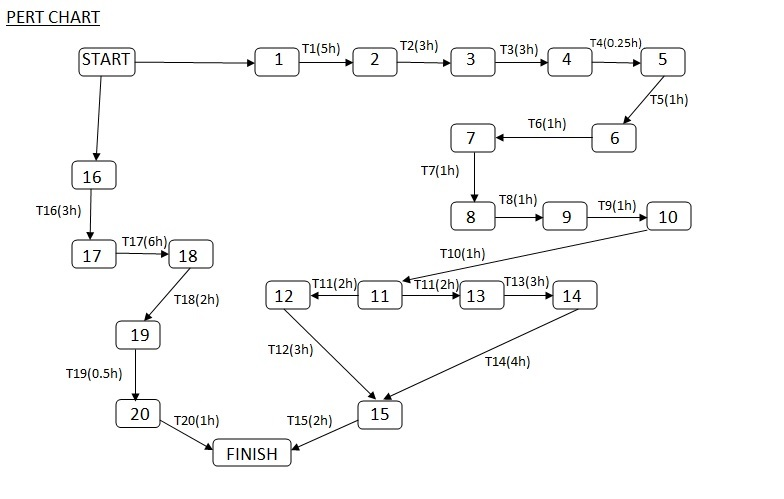
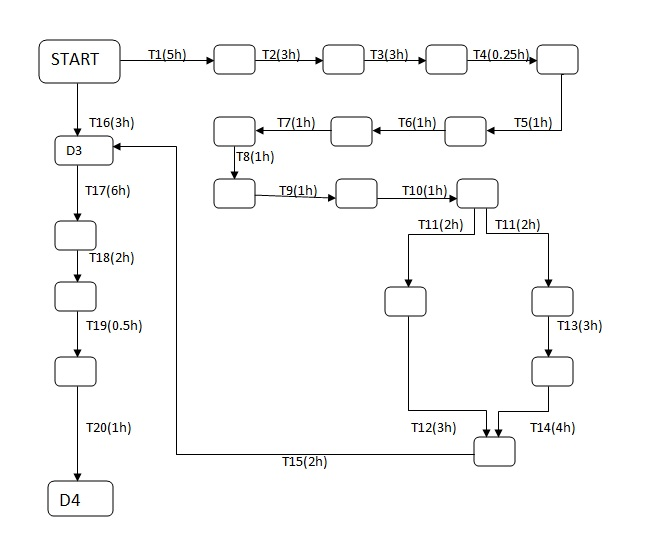
Updated the Pert chart and modified subsection 2.4

diff --git a/Deliverables/D2/d2.tex b/Deliverables/D2/d2.tex
@@ -328,7 +328,7 @@ Task & Title & Hours & Depend & Team Members \\ [0.5ex]
 \end{tabular}
 \label{table:nonlin} % is used to refer this table in the text
 \end{table}
-
+\subsection{Pert Chart}
 \includegraphics[scale=0.7]{img/PERT.jpg}
 Present the schedules on which performance and resource planning are
 based. Include a task table, Gantt and PERT charts.
